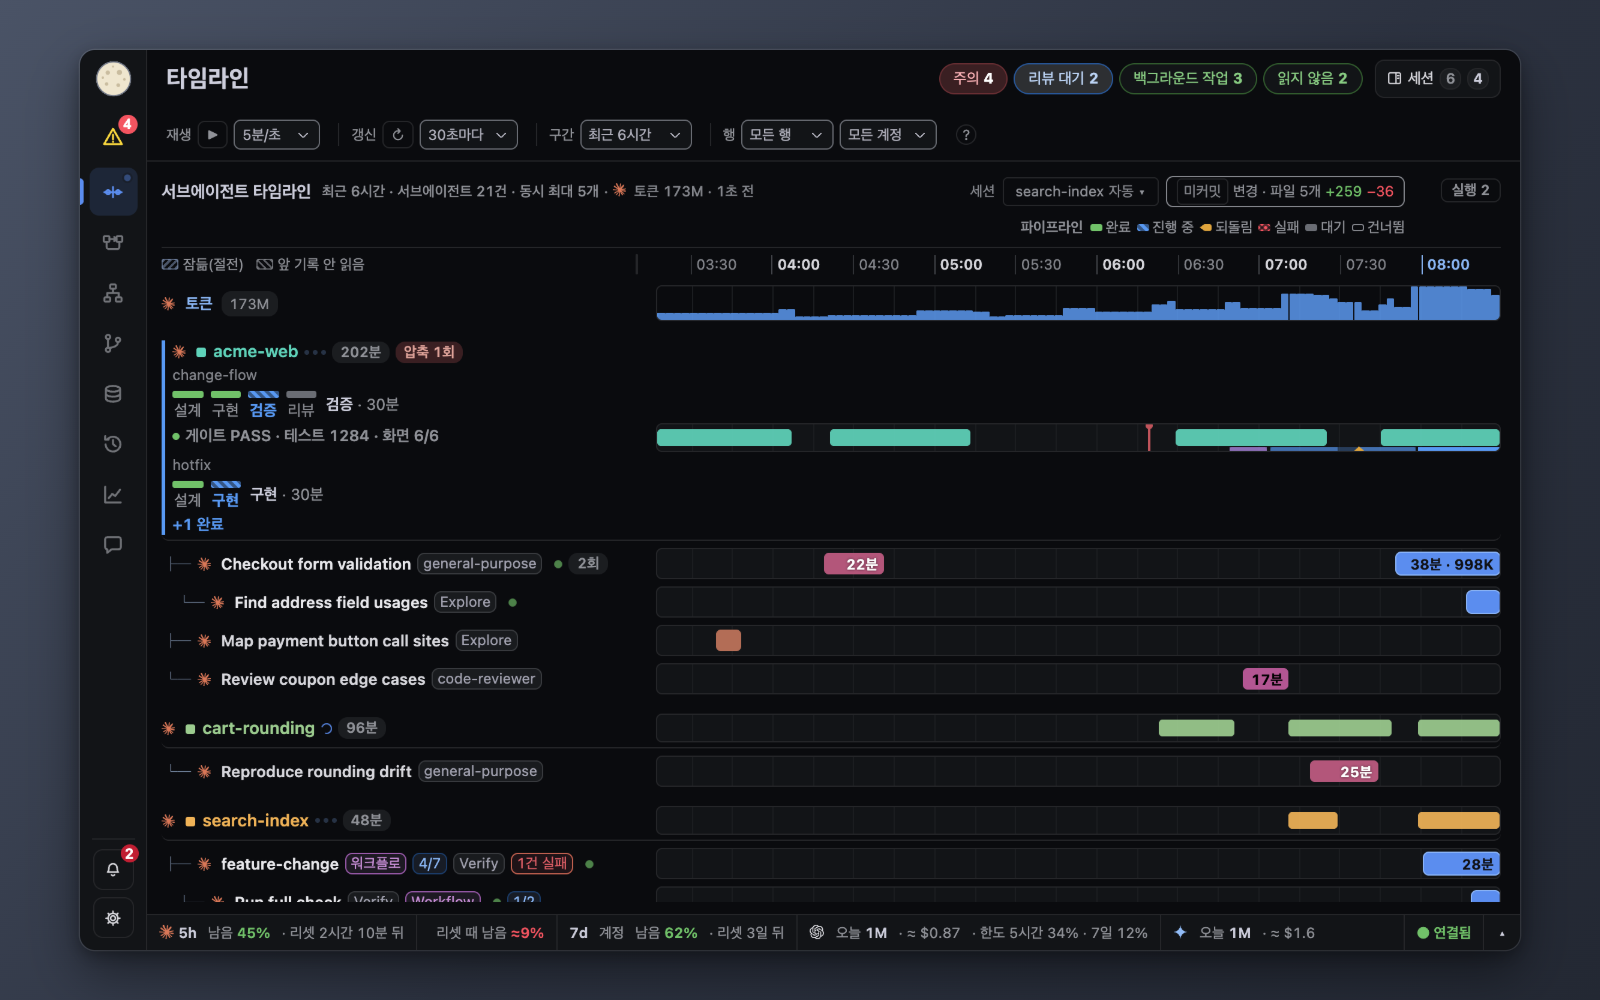
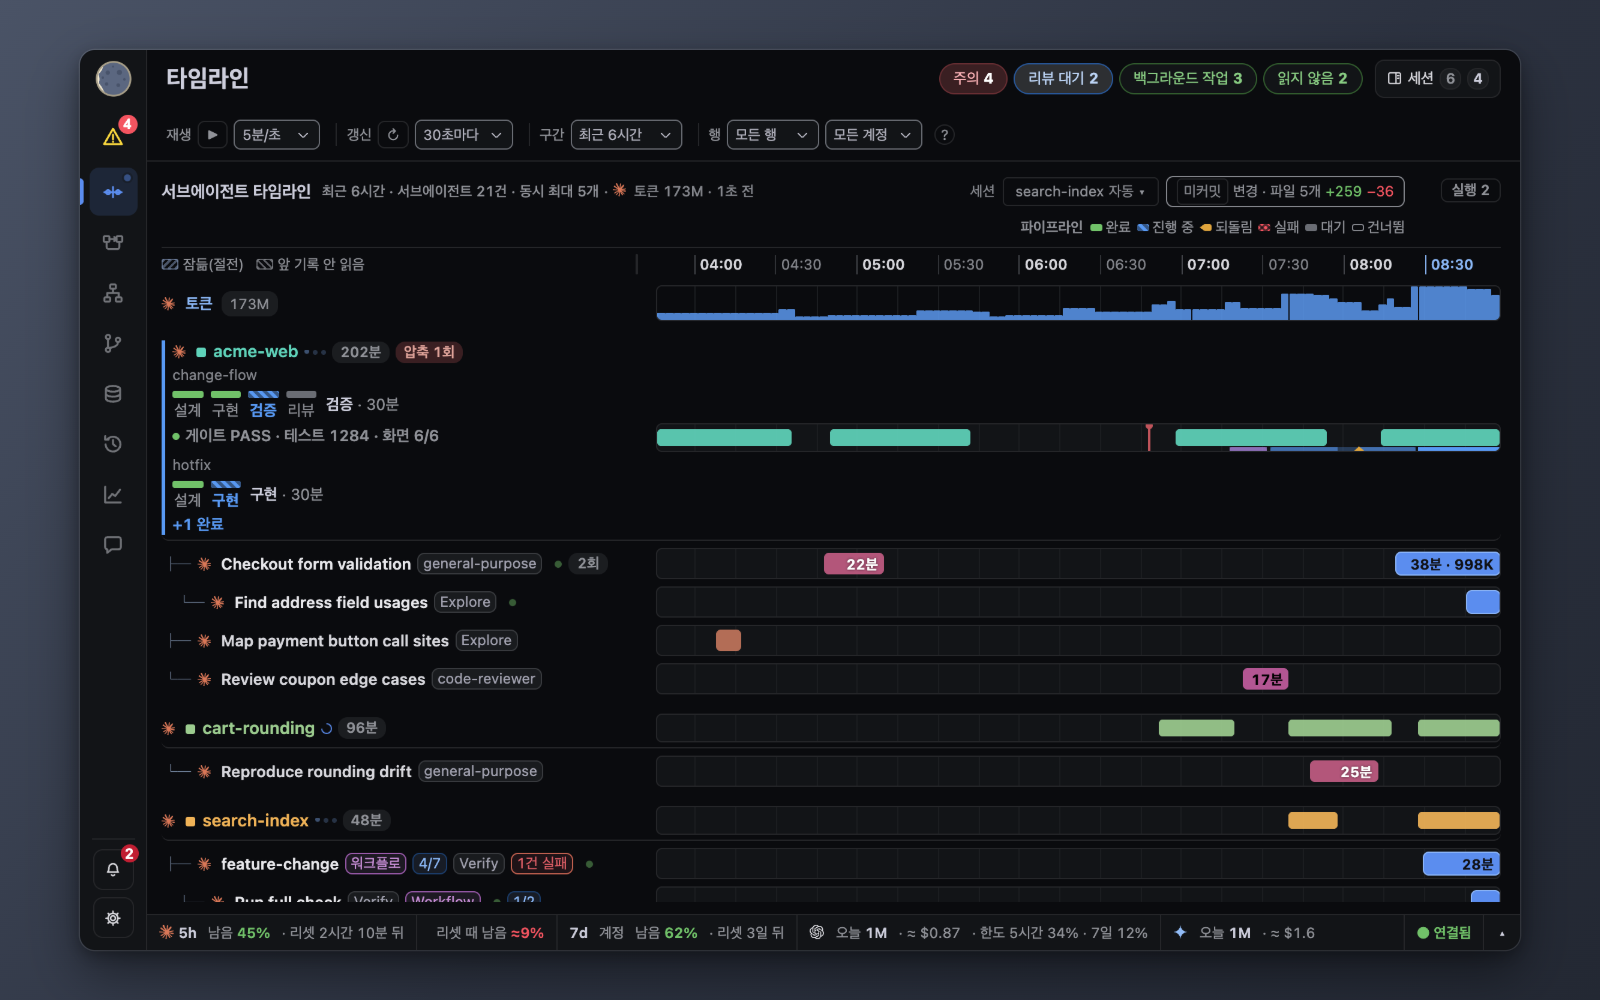
Timeline: keep the toolbar on one line at 900px in English
The English toolbar needed 825px in the 812px slot at 900px and wrapped
the «?» help to a second line. Group separators drop from 10px to 8px
margin and padding, and the «?» in the toolbar uses only the slot gap
instead of an extra 6px margin (807px now).

Done when:
R1: en 900 toolbar on one line — PASS (live measure: «?» top 62 vs 89 before; demo shot)
R2: no regression at 900/1100/1440 ko/en — PASS (screen_check 6/6)
Not doing: fitting the head line on one row at 900 with a pipeline key (needs ~870px in 816px).
X-Build-Time: 2026-10-18T23:56:28Z 3ef276f76283 (en 900 toolbar re-measured on this build)

Claude-Session: https://claude.ai/code/session_01MxebWeSyRGi1H6Uy4AA5wg

diff --git a/web/css/90-main-ui.css b/web/css/90-main-ui.css
@@ -66,7 +66,9 @@ html[data-ui=next] .nxlg span{display:inline-flex;align-items:center;gap:5px}
 html[data-ui=next] .tlq{font-style:normal;cursor:help;font-size:11px;color:var(--nx-t2);border:1px solid var(--nx-rule);
   border-radius:50%;width:17px;height:17px;display:inline-flex;align-items:center;justify-content:center;margin-left:6px}
 html[data-ui=next] .tlq:focus-visible{outline:2px solid var(--nx-info);outline-offset:1px}
-html[data-ui=next] .tlgl{font-style:normal;font-size:11px;color:var(--nx-t2);margin-left:10px;padding-left:10px;
+html[data-ui=next] .tbs > .tlq{margin-left:0}   /* the toolbar slot gap already separates it */
+/* ⚠8px, not 10: en at 900 needed 825px in an 812px toolbar slot and wrapped the «?» to a second line. */
+html[data-ui=next] .tlgl{font-style:normal;font-size:11px;color:var(--nx-t2);margin-left:8px;padding-left:8px;
   border-left:1px solid var(--nx-rule)}
 html[data-ui=next] .tlgl:first-child{margin-left:0;padding-left:0;border-left:none}
 /* ?ui=next bottom status bar + drawer. The bar is the last flex child of body (body is a 100% flex column),
